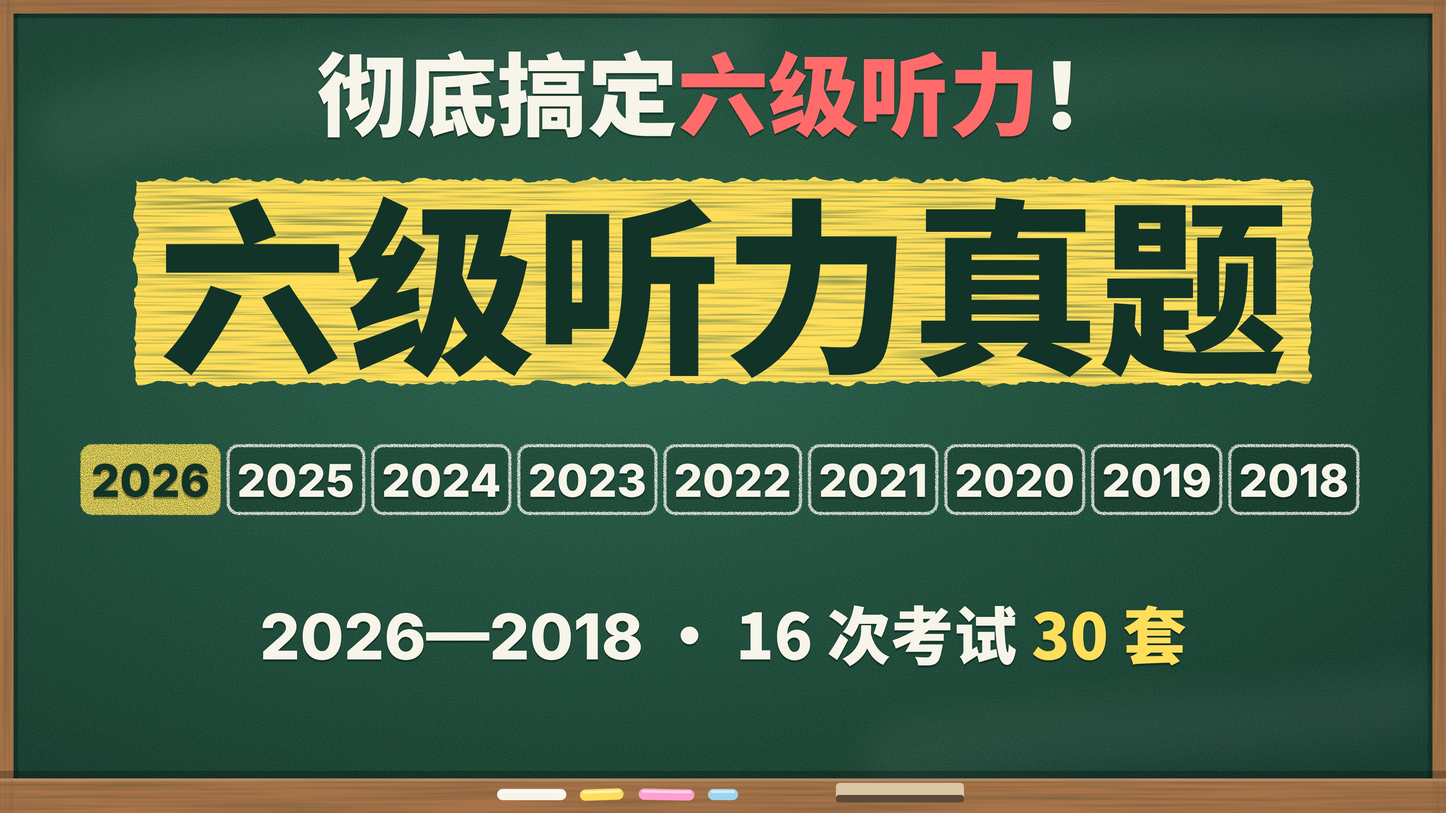
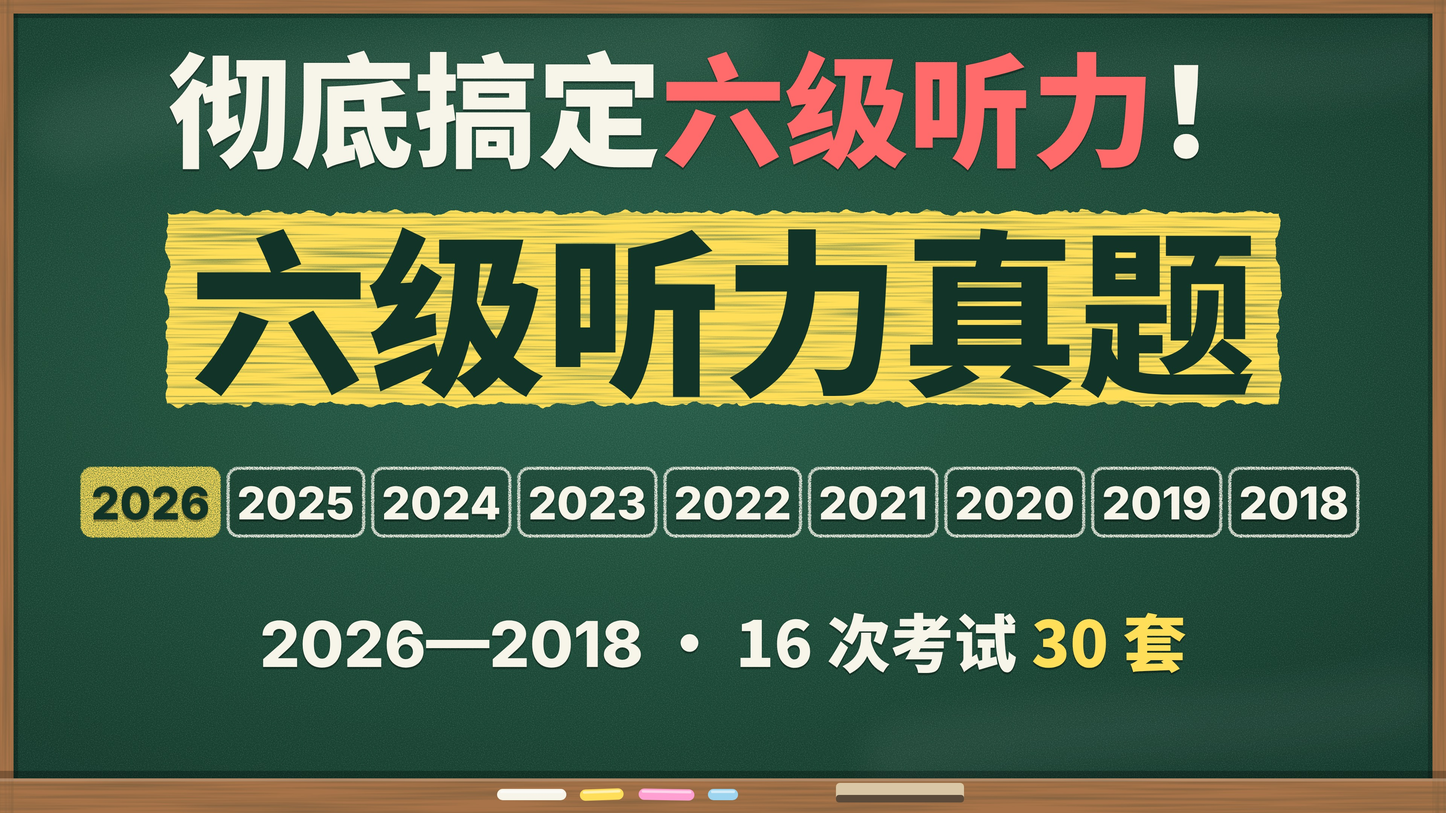
六级听力 B站封面：钩子“彻底搞定六级听力”放大约 1.3—1.4 倍（A/B/C × 16:9、4:3），自查与自检 0 处
Claude-Session: https://claude.ai/code/session_01BA1TPCmk6LQSZfmadtrPdK

diff --git a/六级/听力/封面/系列封面.py b/六级/听力/封面/系列封面.py
@@ -108,18 +108,18 @@ SELL = f'考试原音 · 题目同步 · {y("答案")}一目了然'
 def A(w=1920, h=1080):
     if w < 1900:
         return board(w, h, f"""
-<div class="ab" data-k="hook" data-min="{MIN_HOOK}" style="left:60px;top:52px;font:900 {fs(100)}/1.2 Black">{L.hl('彻底搞定六级听力', RED, ink='#fff', px=24)}</div>
-{seal(1110, 40, 256, rot=6)}
+<div class="ab" data-k="hook" data-min="{MIN_HOOK}" style="left:60px;top:46px;font:900 {fs(128)}/1.18 Black">{L.hl('彻底搞定六级听力', RED, ink='#fff', px=26)}</div>
+{seal(1160, 60, 240, rot=6)}
 <div class="ab ck" data-k="title" data-min="{MIN_TITLE}" style="left:54px;top:226px;font:900 {fs(220)}/1 Black;letter-spacing:-.02em">{SIX}听力<br><span style="color:{YEL}">真题</span></div>
 {phones(1010, 470, 1.15)}
 <div class="ab ck" data-k="years" data-min="{MIN_SELL}" style="left:60px;top:700px;font:900 {fs(88)}/1.18 Black">
  <span class="lat" style="font-size:1.2em">{y(SPAN)}</span><br>全部真题 {y(N)} 套</div>""")
     return board(w, h, f"""
-<div class="ab" data-k="hook" data-min="{MIN_HOOK}" style="left:72px;top:48px;font:900 {fs(126)}/1.2 Black">{L.hl('彻底搞定六级听力', RED, ink='#fff', px=28)}</div>
+<div class="ab" data-k="hook" data-min="{MIN_HOOK}" style="left:74px;top:40px;font:900 {fs(172)}/1.18 Black">{L.hl('彻底搞定六级听力', RED, ink='#fff', px=32)}</div>
 {seal(1590, 46, 252, rot=6)}
-<div class="ab ck" data-k="title" data-min="{MIN_TITLE}" style="left:62px;top:300px;font:900 {fs(256)}/1 Black;letter-spacing:-.02em">{SIX}听力<span style="color:{YEL}">真题</span></div>
+<div class="ab ck" data-k="title" data-min="{MIN_TITLE}" style="left:62px;top:300px;font:900 {fs(250)}/1 Black;letter-spacing:-.02em">{SIX}听力<span style="color:{YEL}">真题</span></div>
 {phones(1580, 690, .86)}
-<div class="ab ck" data-k="years" data-min="{MIN_SELL}" style="left:72px;top:592px;font:900 {fs(122)}/1.2 Black">
+<div class="ab ck" data-k="years" data-min="{MIN_SELL}" style="left:72px;top:600px;font:900 {fs(118)}/1.2 Black">
  <span class="lat">{y(SPAN)}</span> 全部 {y(N)} 套</div>
 <div class="ab ck" data-k="sell" data-min="{MIN_SELL}" style="left:76px;top:784px;font:900 {fs(70)}/1.2 Black">{N_EXAM} 次考试 · 考试原音 · 题目同步</div>""")
 
@@ -132,12 +132,12 @@ def B(w=1920, h=1080):
     yr43 = '' if big else (years(62, mr=10, pad=14, ys=YEARS[::-1][:5]) + '<br>'
                            + years(62, mr=10, pad=14, ys=YEARS[::-1][5:]))   # 4:3 一行放不下 9 个：分两行
     return board(w, h, f"""
-<div class="ab" data-k="hook" data-min="{MIN_HOOK}" style="left:{c}px;transform:translateX(-50%);top:50px;white-space:nowrap;font:900 {fs(120 if big else 100)}/1.15 Black">
+<div class="ab" data-k="hook" data-min="{MIN_HOOK}" style="left:{c}px;transform:translateX(-50%);top:44px;white-space:nowrap;font:900 {fs(164 if big else 140)}/1.15 Black">
  <span class="ck">彻底搞定</span><span class="ck" style="color:{RED}">六级听力</span><span class="ck">！</span></div>
-<div class="ab" data-k="title" data-min="{MIN_TITLE}" style="left:{c}px;transform:translateX(-50%);top:{218 if big else 200}px;white-space:nowrap;font:900 {fs(250 if big else 210)}/1.2 Black">
+<div class="ab" data-k="title" data-min="{MIN_TITLE}" style="left:{c}px;transform:translateX(-50%);top:{262 if big else 236}px;white-space:nowrap;font:900 {fs(236 if big else 200)}/1.2 Black">
  {L.hl(f'<span style="color:{INK}">六级听力真题</span>', YEL, px=30)}</div>
-<div class="ab" data-k="years" data-min="{MIN_SELL}" style="left:{c}px;transform:translateX(-50%);top:{590 if big else 500}px;white-space:nowrap;text-align:center;line-height:1.5">{yr or yr43}</div>
-<div class="ab ck" data-k="sell" data-min="{MIN_SELL}" style="left:{c}px;transform:translateX(-50%);top:{790 if big else 800}px;white-space:nowrap;font:900 {fs(84 if big else 70)}/1.2 Black">
+<div class="ab" data-k="years" data-min="{MIN_SELL}" style="left:{c}px;transform:translateX(-50%);top:{620 if big else 530}px;white-space:nowrap;text-align:center;line-height:1.5">{yr or yr43}</div>
+<div class="ab ck" data-k="sell" data-min="{MIN_SELL}" style="left:{c}px;transform:translateX(-50%);top:{800 if big else 812}px;white-space:nowrap;font:900 {fs(84 if big else 70)}/1.2 Black">
  <span class="lat">{SPAN}</span> · {N_EXAM} 次考试 {y(f'{N} 套')}</div>""")
 
 
@@ -154,21 +154,20 @@ def C(w=1920, h=1080):
                  f'<span style="margin-left:auto;color:{PNK};font-family:Black">{sum(ms.values())}套</span></div>')
     box = (f'<i style="position:absolute;inset:0;border:6px solid {CHALK};border-radius:22px;background:rgba(0,0,0,.20);filter:url(#line)"></i>'
            f'<div class="ck" style="position:relative;font:900 {fs(60)}/1.3 Black;color:{BLU};margin-bottom:6px"><span class="lat">{SPAN}</span>'
-           + ('' if big else f' 全部 {y(N)} 套') + f'</div><div class="ck" style="position:relative">{rows}</div>')
+           + f' 全部 {y(N)} 套' + f'</div><div class="ck" style="position:relative">{rows}</div>')
     if big:
         return board(w, h, f"""
 <div class="ab" data-k="title" data-min="{MIN_TITLE}" style="left:62px;top:66px;line-height:1">
  <div class="ck" style="font:900 {fs(236)}/1 Black">{SIX}听力</div>
  <div class="ck" style="font:900 {fs(236)}/1 Black;color:{YEL};margin-top:24px">真题</div></div>
-<div class="ab" data-k="hook" data-min="{MIN_HOOK}" style="left:66px;top:586px;font:900 {fs(110)}/1.2 Black">
+<div class="ab" data-k="hook" data-min="{MIN_HOOK}" style="left:66px;top:584px;font:900 {fs(150)}/1.18 Black">
  <span class="ck">彻底搞定</span><br><span class="ck" style="color:{RED}">六级听力</span><span class="ck">！</span></div>
-<div class="ab ck" data-k="sell" data-min="{MIN_SELL}" style="left:70px;top:866px;font:900 {fs(62)}/1.2 Black">全部真题 {y(N)} 套</div>
 <div class="ab" data-k="years" data-min="{MIN_SELL}" style="left:1130px;top:60px;width:720px;padding:22px 40px 26px;font:800 {fs(60)}/1.2 Inter">{box}</div>""")
     return board(w, h, f"""
 <div class="ab ck" data-k="title" data-min="{MIN_TITLE}" style="left:56px;top:56px;font:900 {fs(196)}/1.04 Black">{SIX}<br>听力<br><span style="color:{YEL}">真题</span></div>
-<div class="ab" data-k="hook" data-min="{MIN_HOOK}" style="left:60px;top:854px;font:900 {fs(80)}/1.15 Black">
+<div class="ab" data-k="hook" data-min="{MIN_HOOK}" style="left:60px;top:800px;font:900 {fs(110)}/1.15 Black">
  <span class="ck">彻底搞定</span><span class="ck" style="color:{RED}">六级听力</span><span class="ck">！</span></div>
-<div class="ab" data-k="years" data-min="{MIN_SELL}" style="left:520px;top:50px;width:860px;padding:18px 40px 20px;font:800 {fs(60)}/1.16 Inter">{box}</div>""")
+<div class="ab" data-k="years" data-min="{MIN_SELL}" style="left:520px;top:44px;width:860px;padding:14px 40px 16px;font:800 {fs(60)}/1.08 Inter">{box}</div>""")
 
 
 DIRS = {'A': A, 'B': B, 'C': C}

diff --git a/六级/听力/交接_B站封面.md b/六级/听力/交接_B站封面.md
@@ -22,3 +22,8 @@
 - 提交推送（铁律 9）。
 - 用 send_message 报给总协调 session_01BA1TPDeBCTqUqZp4b3sgwr（≤ 5 行）：两张定稿 jpg 的仓库路径、两个备选方向 16:9 小图路径、标题与简介路径。总协调负责发给老师。
 - 安全：仓库公开，不放老师邮箱、截图、录音；提交里不写模型名。
+
+## 完成情况（2026-11-04 20:35）
+- 定稿 A 已推送：`系列封面/六级听力真题30套_封面_16比9.jpg`、`_4比3.jpg`（+ png），备选 B、C 的 16:9；`B站标题与简介.md`。
+- 老师追加已改：年份 2026 在前（2026—2018）、封面不写月份；钩子“彻底搞定六级听力”放大约 1.3—1.4 倍（16:9 126→172px、4:3 100→128px，B、C 同步）。
+- 再改：编辑 `系列封面.py` → `python3 六级/听力/封面/系列封面.py 草稿`（看 work/ 的 _320 小图）→ `--自检` → `定稿 A` → `python3 六级/听力/封面/标题与简介.py`。新容器没有 ttsenv 时 `pip install playwright pillow`（不装浏览器）。
